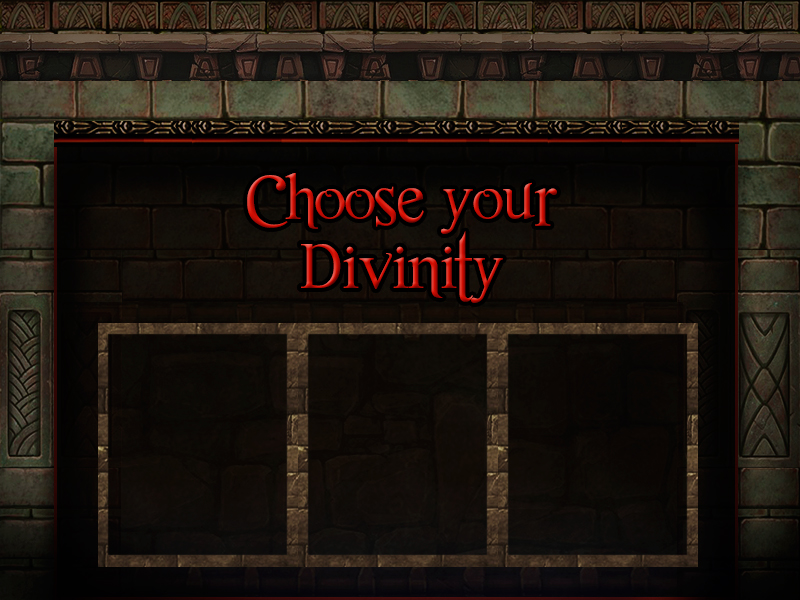
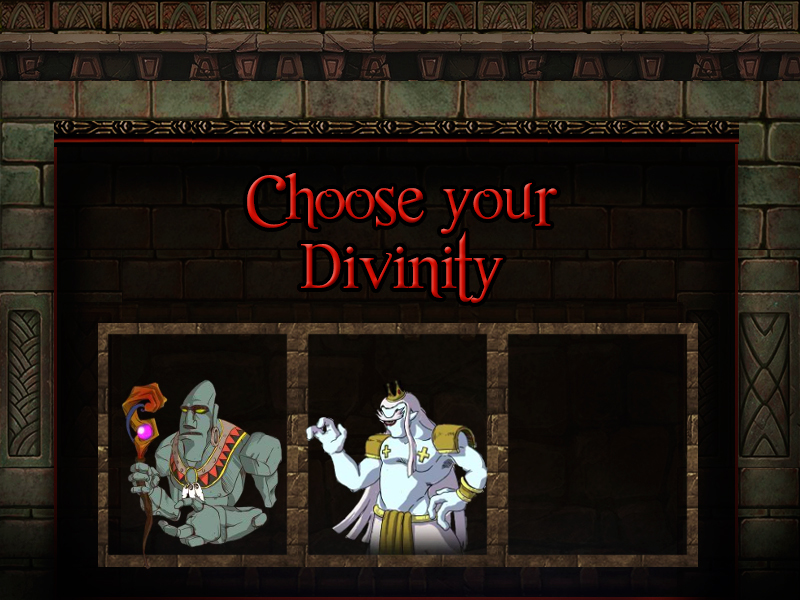
+new graphics

Changed region(s): [[0.1562, 0.63, 0.625, 0.93]]

diff --git a/src/states/WinnerState.js b/src/states/WinnerState.js
@@ -1,7 +1,8 @@
 class WinnerState extends Phaser.State {
 
-    init(player) {
+    init(player, hero) {
         this.player = player;
+        this.hero = hero;
     }
 
     preload() {
@@ -9,6 +10,9 @@ class WinnerState extends Phaser.State {
         this.game.load.spritesheet('button_play', 'assets/menu/button_play.png', 200, 60);
         this.game.load.spritesheet('winner1', 'assets/menu/player1winner.png', 250, 200);
         this.game.load.spritesheet('winner2', 'assets/menu/player2winner.png', 250, 200);
+
+        this.game.load.atlasXML('hero1', 'assets/sprites/ro_Idle.png', 'assets/sprites/ro_Idle.xml');
+        this.game.load.atlasXML('hero2', 'assets/sprites/postura_h.png', 'assets/sprites/postura_h.xml');
 
     }
 
@@ -19,6 +23,22 @@ class WinnerState extends Phaser.State {
             this.game.add.tileSprite(this.game.world.centerX-125, 320, 250, 200, 'winner1');
         }else{
             this.game.add.tileSprite(this.game.world.centerX-125, 320, 250, 200, 'winner2');
+        }
+        if(this.hero == 1){
+            //this.game.add.tileSprite(this.game.world.centerX-125, 320, 250, 200, 'winner1');
+            let animhero = this.game.add.sprite(this.game.world.centerX, 100, 'hero1');
+            animhero.animations.add('default');
+            animhero.animations.play('default', 30, true);
+
+            //  Bob the octopus up and down with a tween
+            this.game.add.tween(animhero).to({ y: 200 }, 2000, Phaser.Easing.Quadratic.InOut, true, 0, 1000, true);
+        }else{
+            let animhero = this.game.add.sprite(this.game.world.centerX, 100, 'hero2');
+            animhero.animations.add('default');
+            animhero.animations.play('default', 30, true);
+
+            //  Bob the octopus up and down with a tween
+            this.game.add.tween(animhero).to({ y: 200 }, 2000, Phaser.Easing.Quadratic.InOut, true, 0, 1000, true);
         }
 
     }

diff --git a/src/objects/entities/Player.js b/src/objects/entities/Player.js
@@ -17,12 +17,12 @@ class Player {
             this.direction = -1;
             this.positionGod = [200, 120];
             this.positionSkills = [10, 240];
-            this.positionBoard = [110, 289];
+            this.positionBoard = [108, 290];
             this.positionFlare = [200, 180];
         } else {
             this.positionGod = [600, 120];
             this.positionSkills = [410, 640];
-            this.positionBoard = [506, 289];
+            this.positionBoard = [503, 290];
             this.positionFlare = [620, 180];
             lifeX = 405;
         }
@@ -55,12 +55,13 @@ class Player {
 
 
     destroyall() {
+        let th = this.enemy.typeGod;
         this.destroy();
         this.enemy.destroy();
         let t = 1;
         if (this.type == 1)
             t = 2;
-        this.game.state.start("WinnerState", true, true, t);
+        this.game.state.start("WinnerState", true, true, t,th);
     }
 
     attack1() {

diff --git a/src/objects/sprites/God.js b/src/objects/sprites/God.js
@@ -47,7 +47,7 @@ class God extends Phaser.Sprite {
         console.log(x);
         for (let i = 1; i < number + 1; i++) {
             if (this.lifeParticles.length < 10) {
-                this.lifeParticles.push(new LifeFlare(this.game, x + i * 35, 245));
+                this.lifeParticles.push(new LifeFlare(this.game, x -10 + i * 35, 235));
             } else {
                 break;
             }
@@ -57,7 +57,7 @@ class God extends Phaser.Sprite {
     setLife(x) {
         this.initialX = x;
         for (let i = 1; i < 11; i++) {
-            this.lifeParticles.push(new LifeFlare(this.game, this.initialX + i * 35, 245));
+            this.lifeParticles.push(new LifeFlare(this.game, this.initialX-10 + i * 35, 235));
         }
     }
 

diff --git a/src/states/GameState.js b/src/states/GameState.js
@@ -21,6 +21,7 @@ class GameState extends Phaser.State {
         this.game.load.atlasXML('daño_h', 'assets/sprites/daño_h.png', 'assets/sprites/daño_h.xml');
         this.game.load.atlasXML('romper_h', 'assets/sprites/romper_h.png', 'assets/sprites/romper_h.xml');
         this.game.load.atlasXML('postura_h', 'assets/sprites/postura_h.png', 'assets/sprites/postura_h.xml');
+        this.game.load.atlasXML('fire', 'assets/sprites/fx_fire.png', 'assets/sprites/fx_fire.xml');
         this.game.load.spritesheet('simbols', 'assets/menu/simbols.png', 252 / 4, 63, 8);
         this.game.load.spritesheet('skills', 'assets/sprites/skills.png', 80, 80, 24);
         this.game.load.image('interfase', 'assets/menu/interfase.jpg');

diff --git a/src/objects/entities/LifeFlare.js b/src/objects/entities/LifeFlare.js
@@ -1,15 +1,12 @@
 export default class LifeFlare {
     constructor(game, x, y) {
-        this.emitter = game.add.emitter(x, y, 200, 100);
-        this.emitter.makeParticles('lifeFlare');
-        this.emitter.setRotation(0, 0);
-        this.emitter.setAlpha(0.3, 0.8);
-        this.emitter.setScale(0.5, 1);
-        this.emitter.gravity = -150;
-        this.emitter.start(false, 200, 1);
+        this.game = game;
+        this.fire = this.game.add.sprite(x, y, 'fire');
+        this.fire.animations.add('default');
+        this.fire.animations.play('default', 30, true);
     }
 
     destroy() {
-        this.emitter.destroy();
+        this.fire.destroy();
     }
 }
